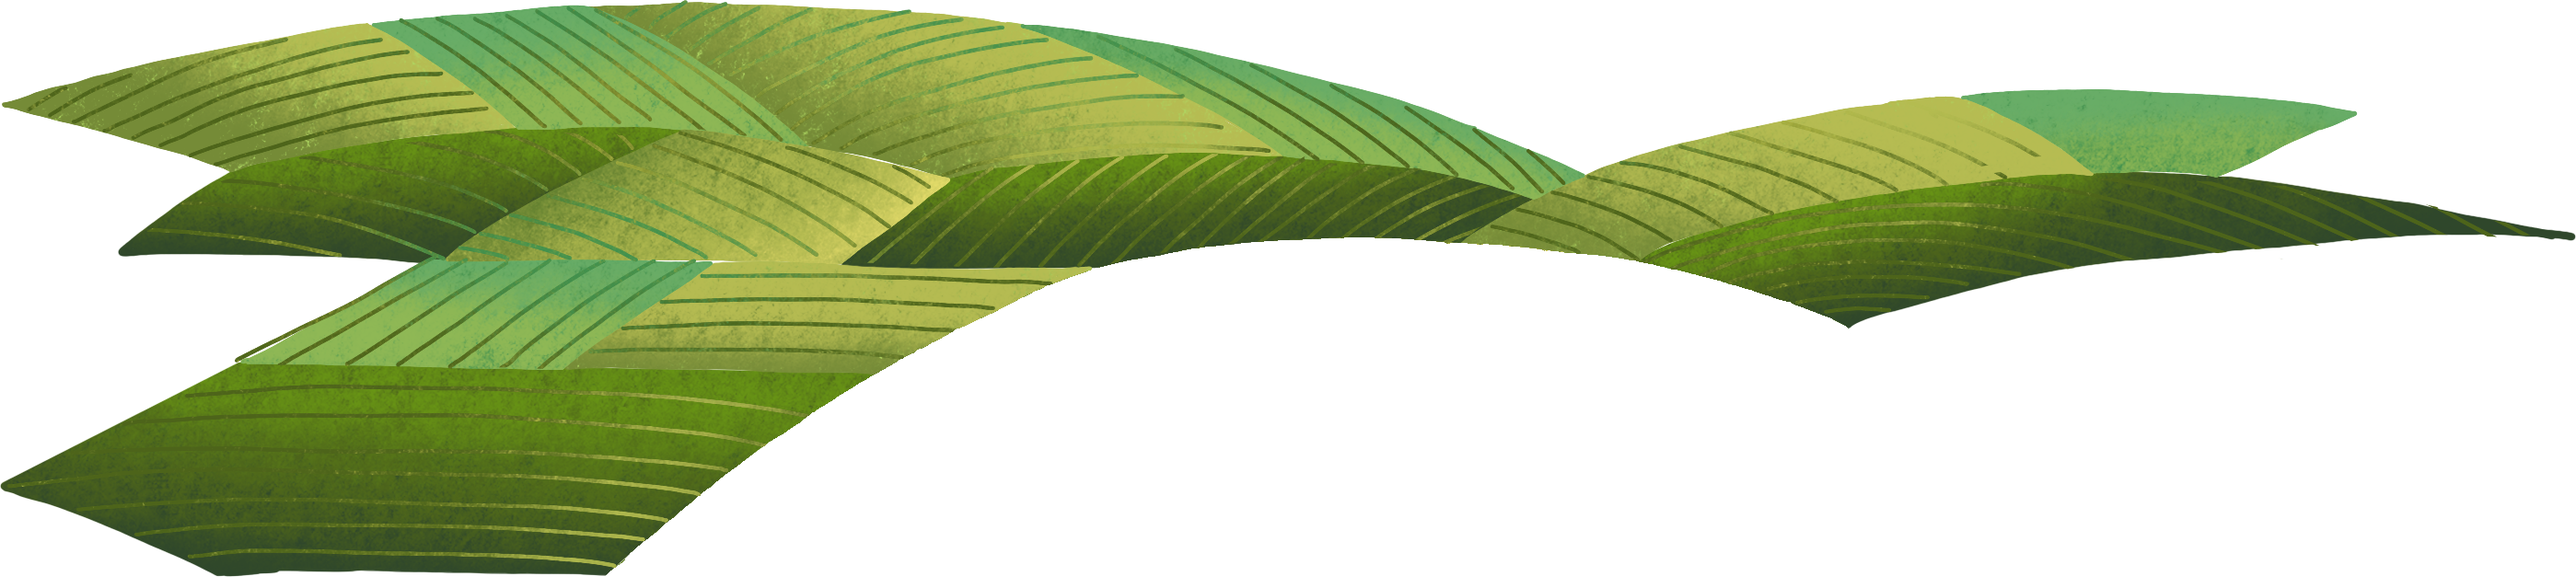
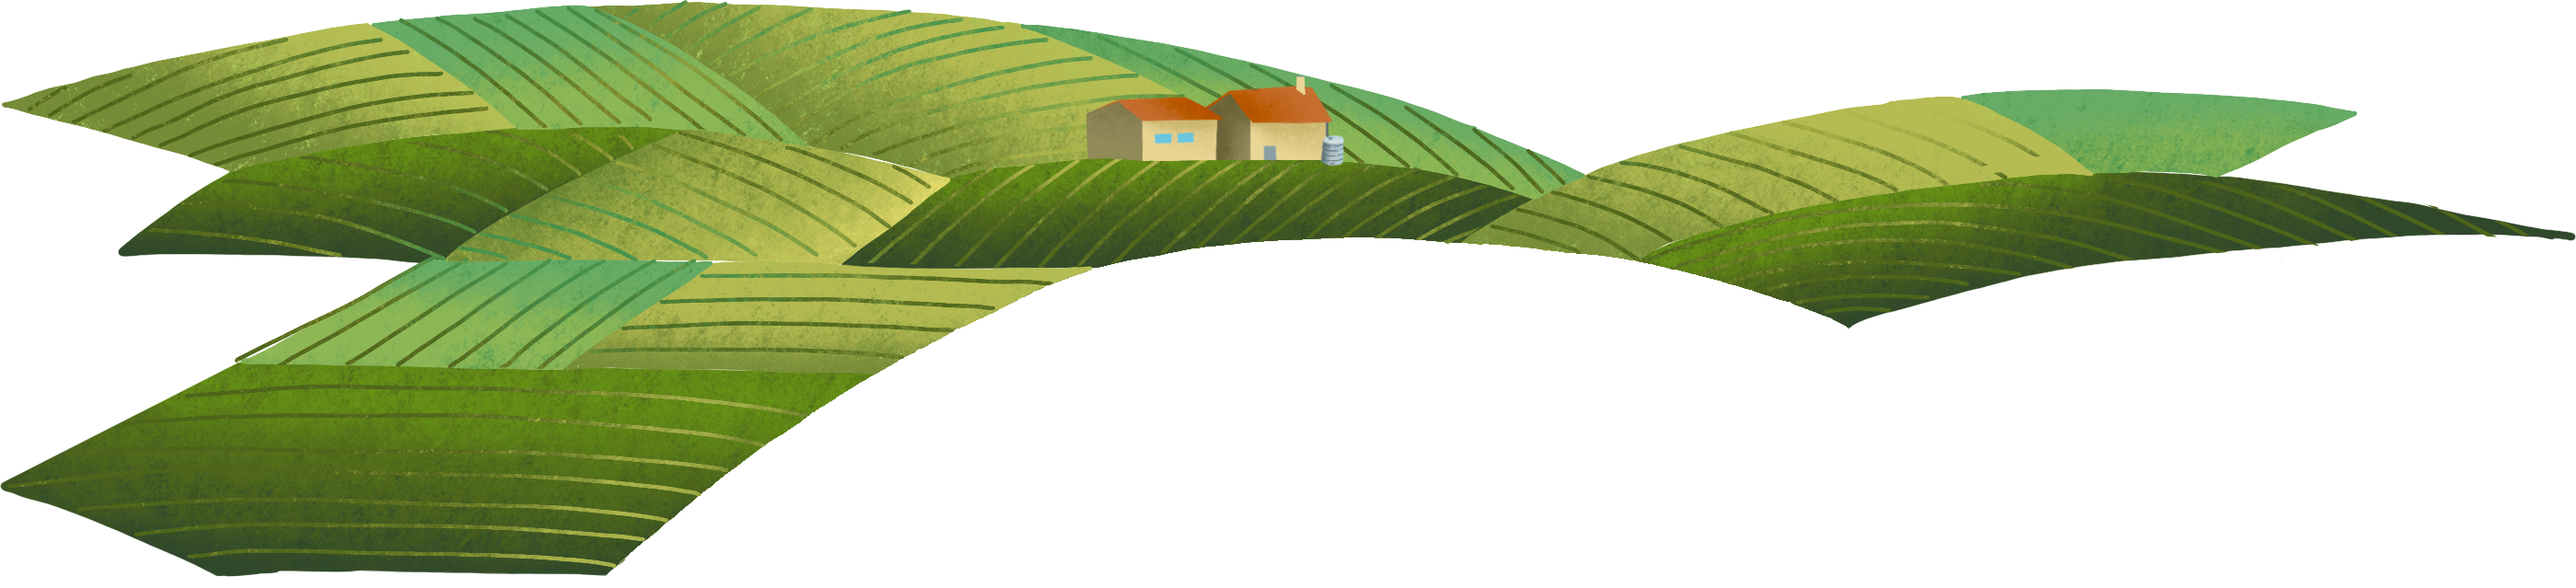
reparation bug image maison dans cultures

Changed region(s): [[0.4042, 0.1487, 0.5286, 0.2973]]

diff --git a/data/amenagements.js b/data/amenagements.js
@@ -322,14 +322,14 @@ const agricole = [
     {
         milieu: "agricole",
         label: "Diversité culturale",
-        x: 35.8,
+        x: 40,
         y: 34.8,
         active: false,
         positionFiche: 'right middle',
         imageActive: {
             path: "amenagements/agricole-cropped/diversite-cultures.png",
-            x: 3842,
-            y: 587
+            x: 3847,
+            y: 590
         },
         imageInactive: {
             path: "amenagements/agricole-cropped/monoculture.png",
